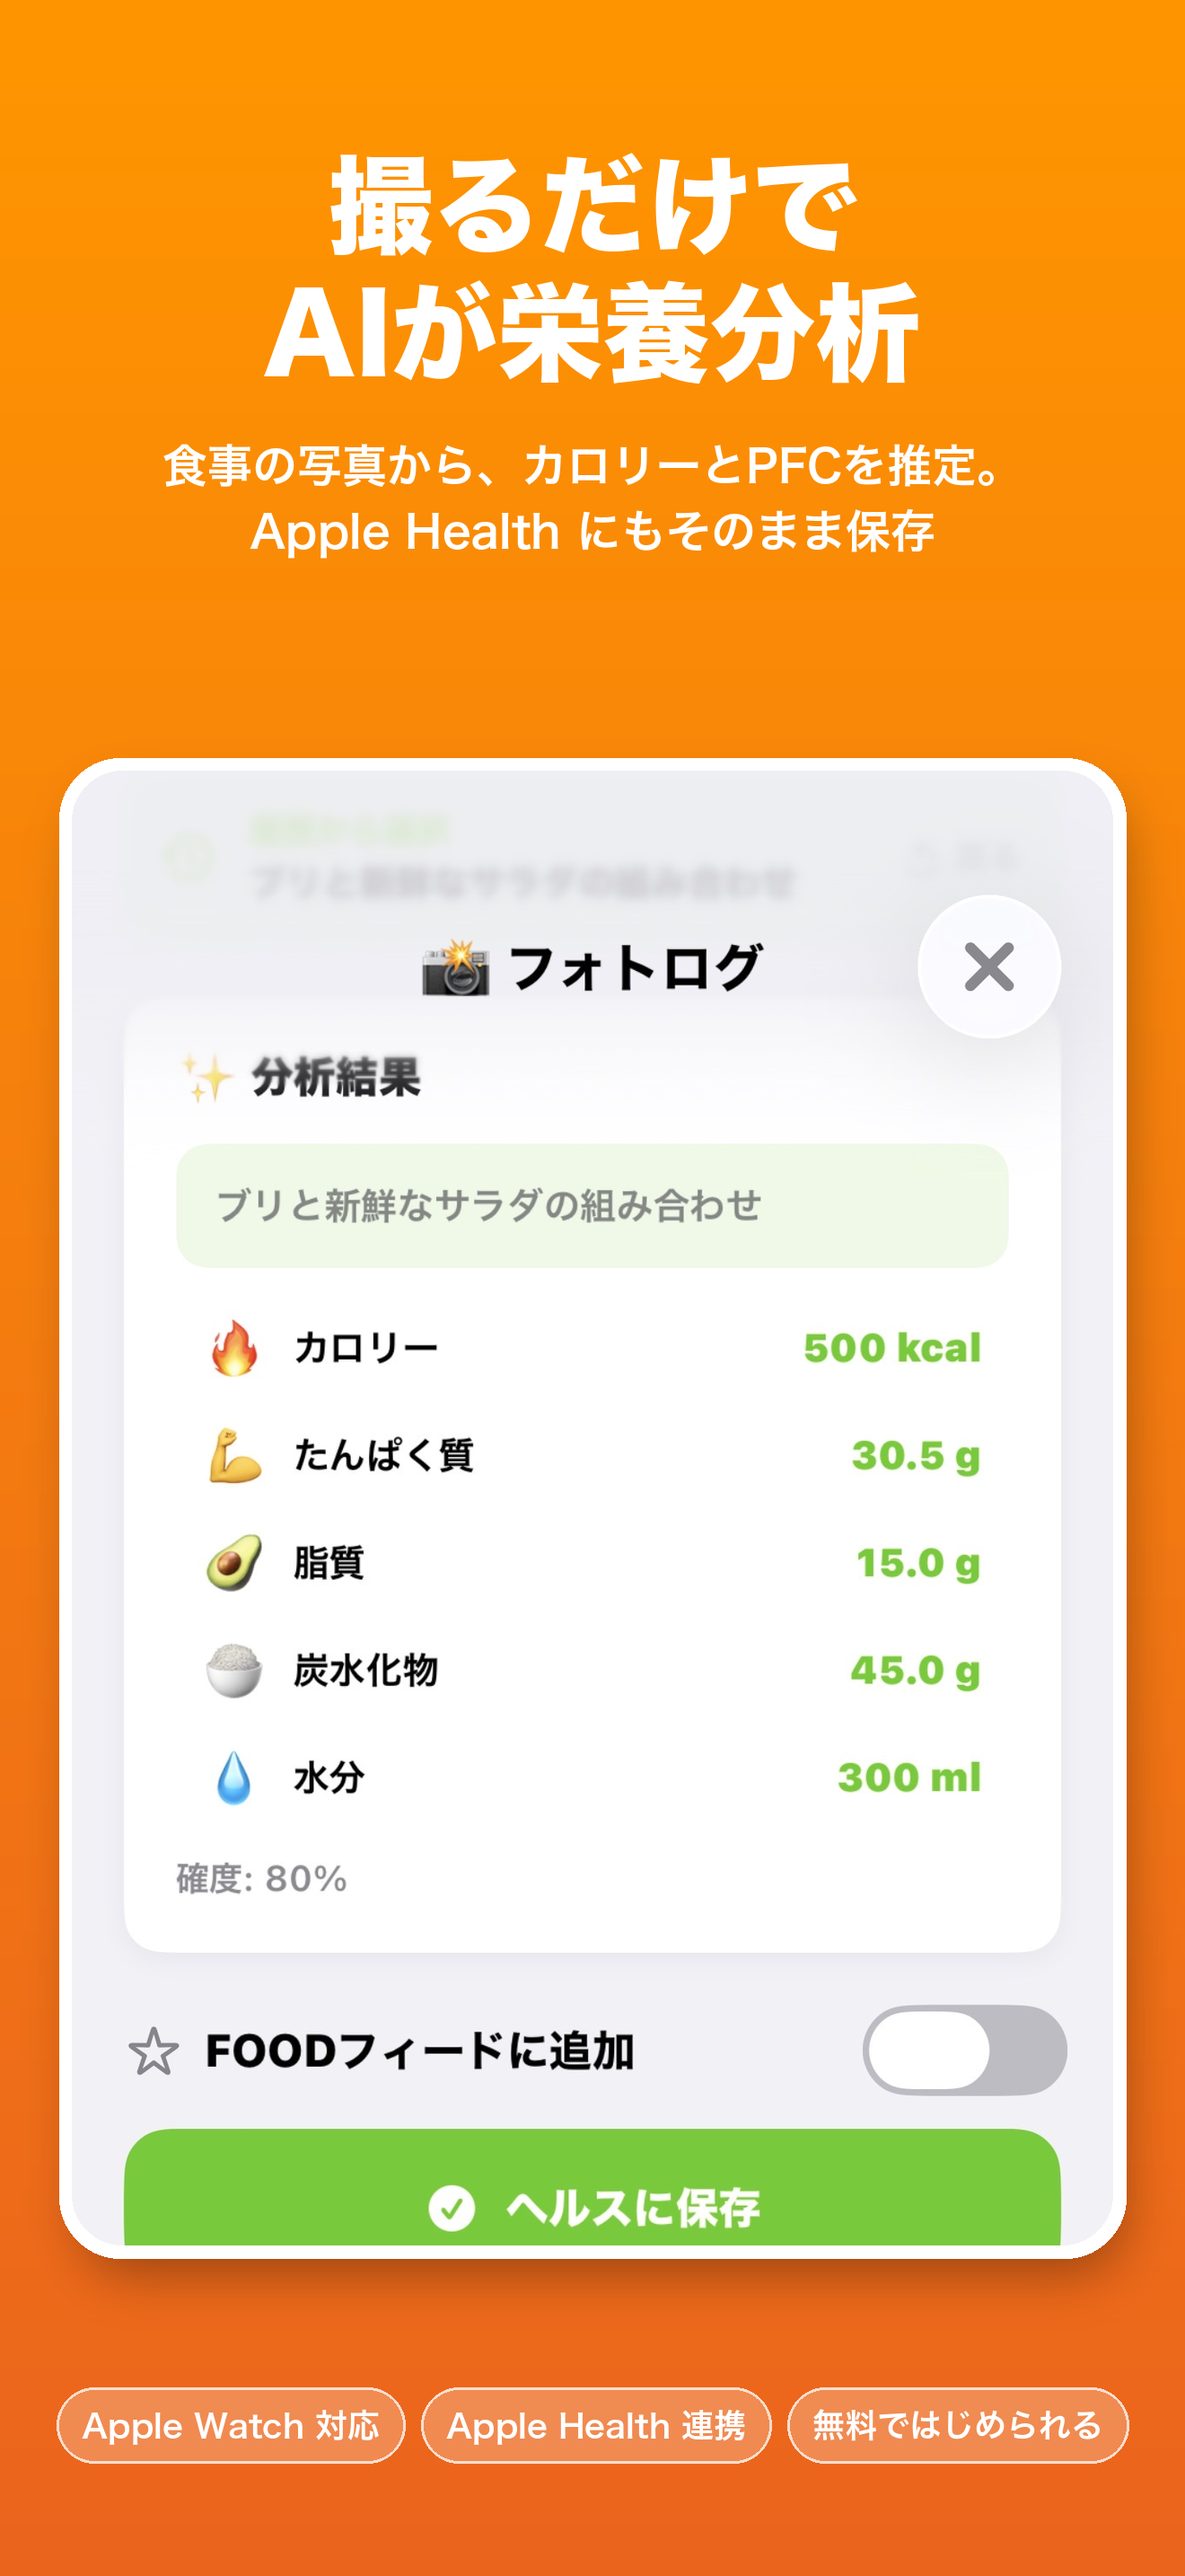
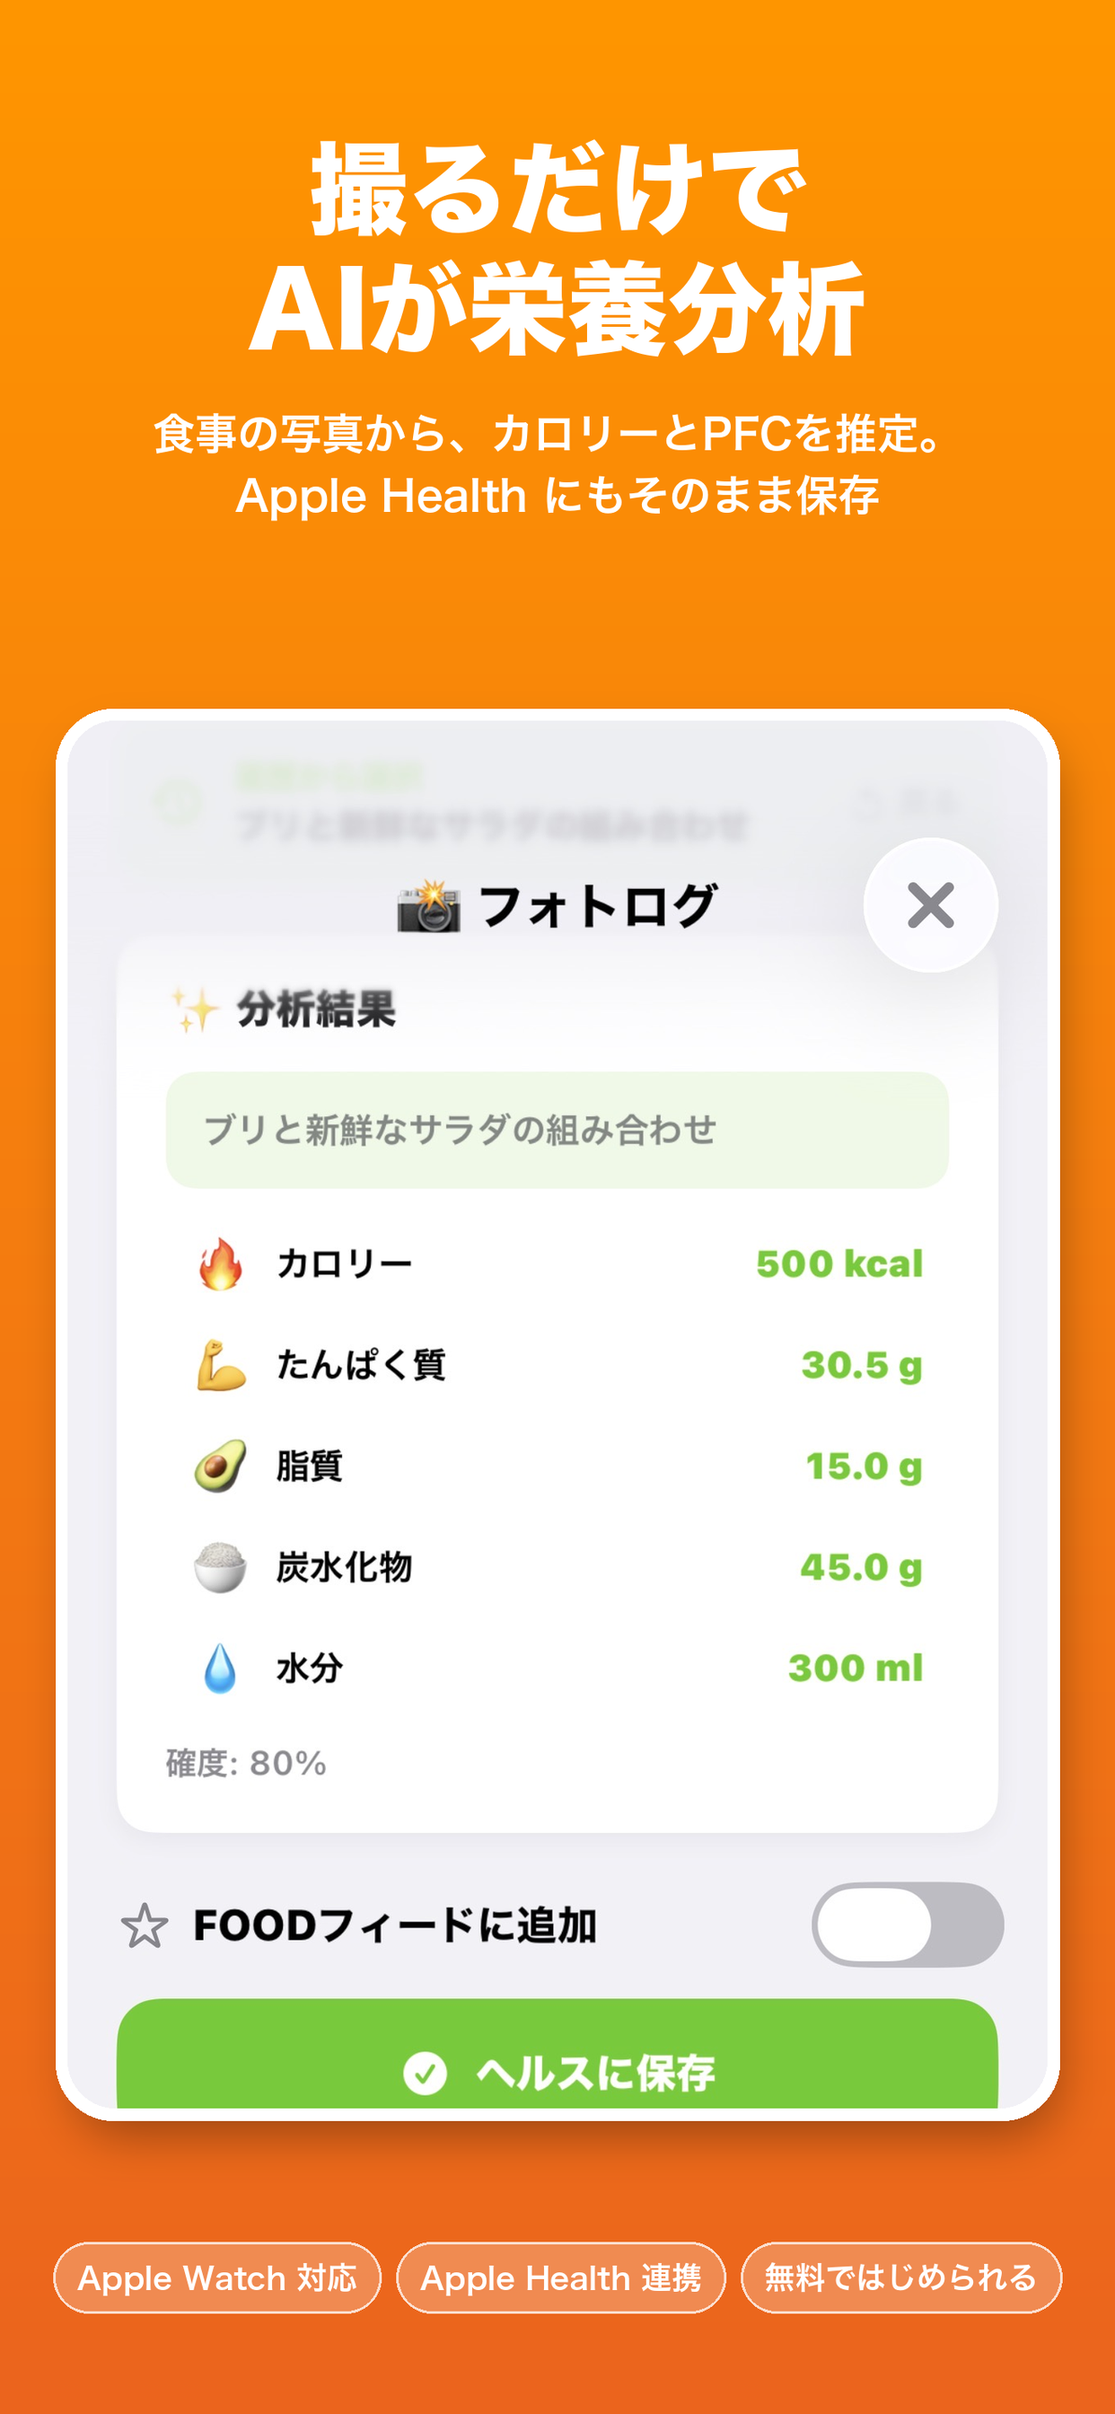
docs: App Store紹介画像5枚を1242x2688（iPhone 6.5インチ）に変更

diff --git a/tools/appstore_screenshots/make.py b/tools/appstore_screenshots/make.py
@@ -2,7 +2,8 @@
 """App Store 用の紹介画像（スクリーンショット + キャッチコピー）を 5 枚作る。
 
 入力: docs/screenshots/ の実機スクリーンショット
-出力: docs/appstore_screenshots/0N_*.png（1320x2868 = iPhone 6.9 インチ）
+出力: docs/appstore_screenshots/0N_*.png（1242x2688 = iPhone 6.5 インチ）
+      ※ 1320x2868 で描いてから縮小・上下をわずかに切り詰める（内容は変わらない）
       docs/appstore_screenshots/overview.png（確認用の一覧）
 使い方: python3 tools/appstore_screenshots/make.py   （Pillow が必要）
 """
@@ -13,7 +14,8 @@ from PIL import Image, ImageDraw, ImageFilter, ImageFont
 ROOT = Path(__file__).resolve().parents[2]
 SHOTS = ROOT / "docs" / "screenshots"
 OUT = ROOT / "docs" / "appstore_screenshots"
-W, H = 1320, 2868
+W, H = 1320, 2868          # 描画サイズ
+OUT_W, OUT_H = 1242, 2688  # 出力サイズ（App Store の 6.5 インチ）
 
 FONT_HEAVY = "/System/Library/Fonts/ヒラギノ角ゴシック W8.ttc"
 FONT_BOLD = "/System/Library/Fonts/ヒラギノ角ゴシック W6.ttc"
@@ -141,6 +143,11 @@ def make_slide(name, shot, title, sub, top, bottom):
         img = paste_watches(img, watches, y0 + card_h + 90)
     img = draw_chips(img, H - 210)
     out = img.convert("RGB")
+    # 横幅を合わせて縮小し、上下の余白（背景のみ）を均等に切り詰める
+    scaled_h = round(H * OUT_W / W)
+    out = out.resize((OUT_W, scaled_h), Image.LANCZOS)
+    top = (scaled_h - OUT_H) // 2
+    out = out.crop((0, top, OUT_W, top + OUT_H))
     out.save(OUT / f"{name}.png", optimize=True)
     return out
 
@@ -149,7 +156,7 @@ def main():
     OUT.mkdir(parents=True, exist_ok=True)
     slides = [make_slide(*s) for s in SLIDES]
     tw = 330
-    th = int(H * tw / W)
+    th = int(OUT_H * tw / OUT_W)
     sheet = Image.new("RGB", (len(slides) * (tw + 16) + 16, th + 32), (240, 240, 240))
     for i, s in enumerate(slides):
         sheet.paste(s.resize((tw, th), Image.LANCZOS), (16 + i * (tw + 16), 16))
